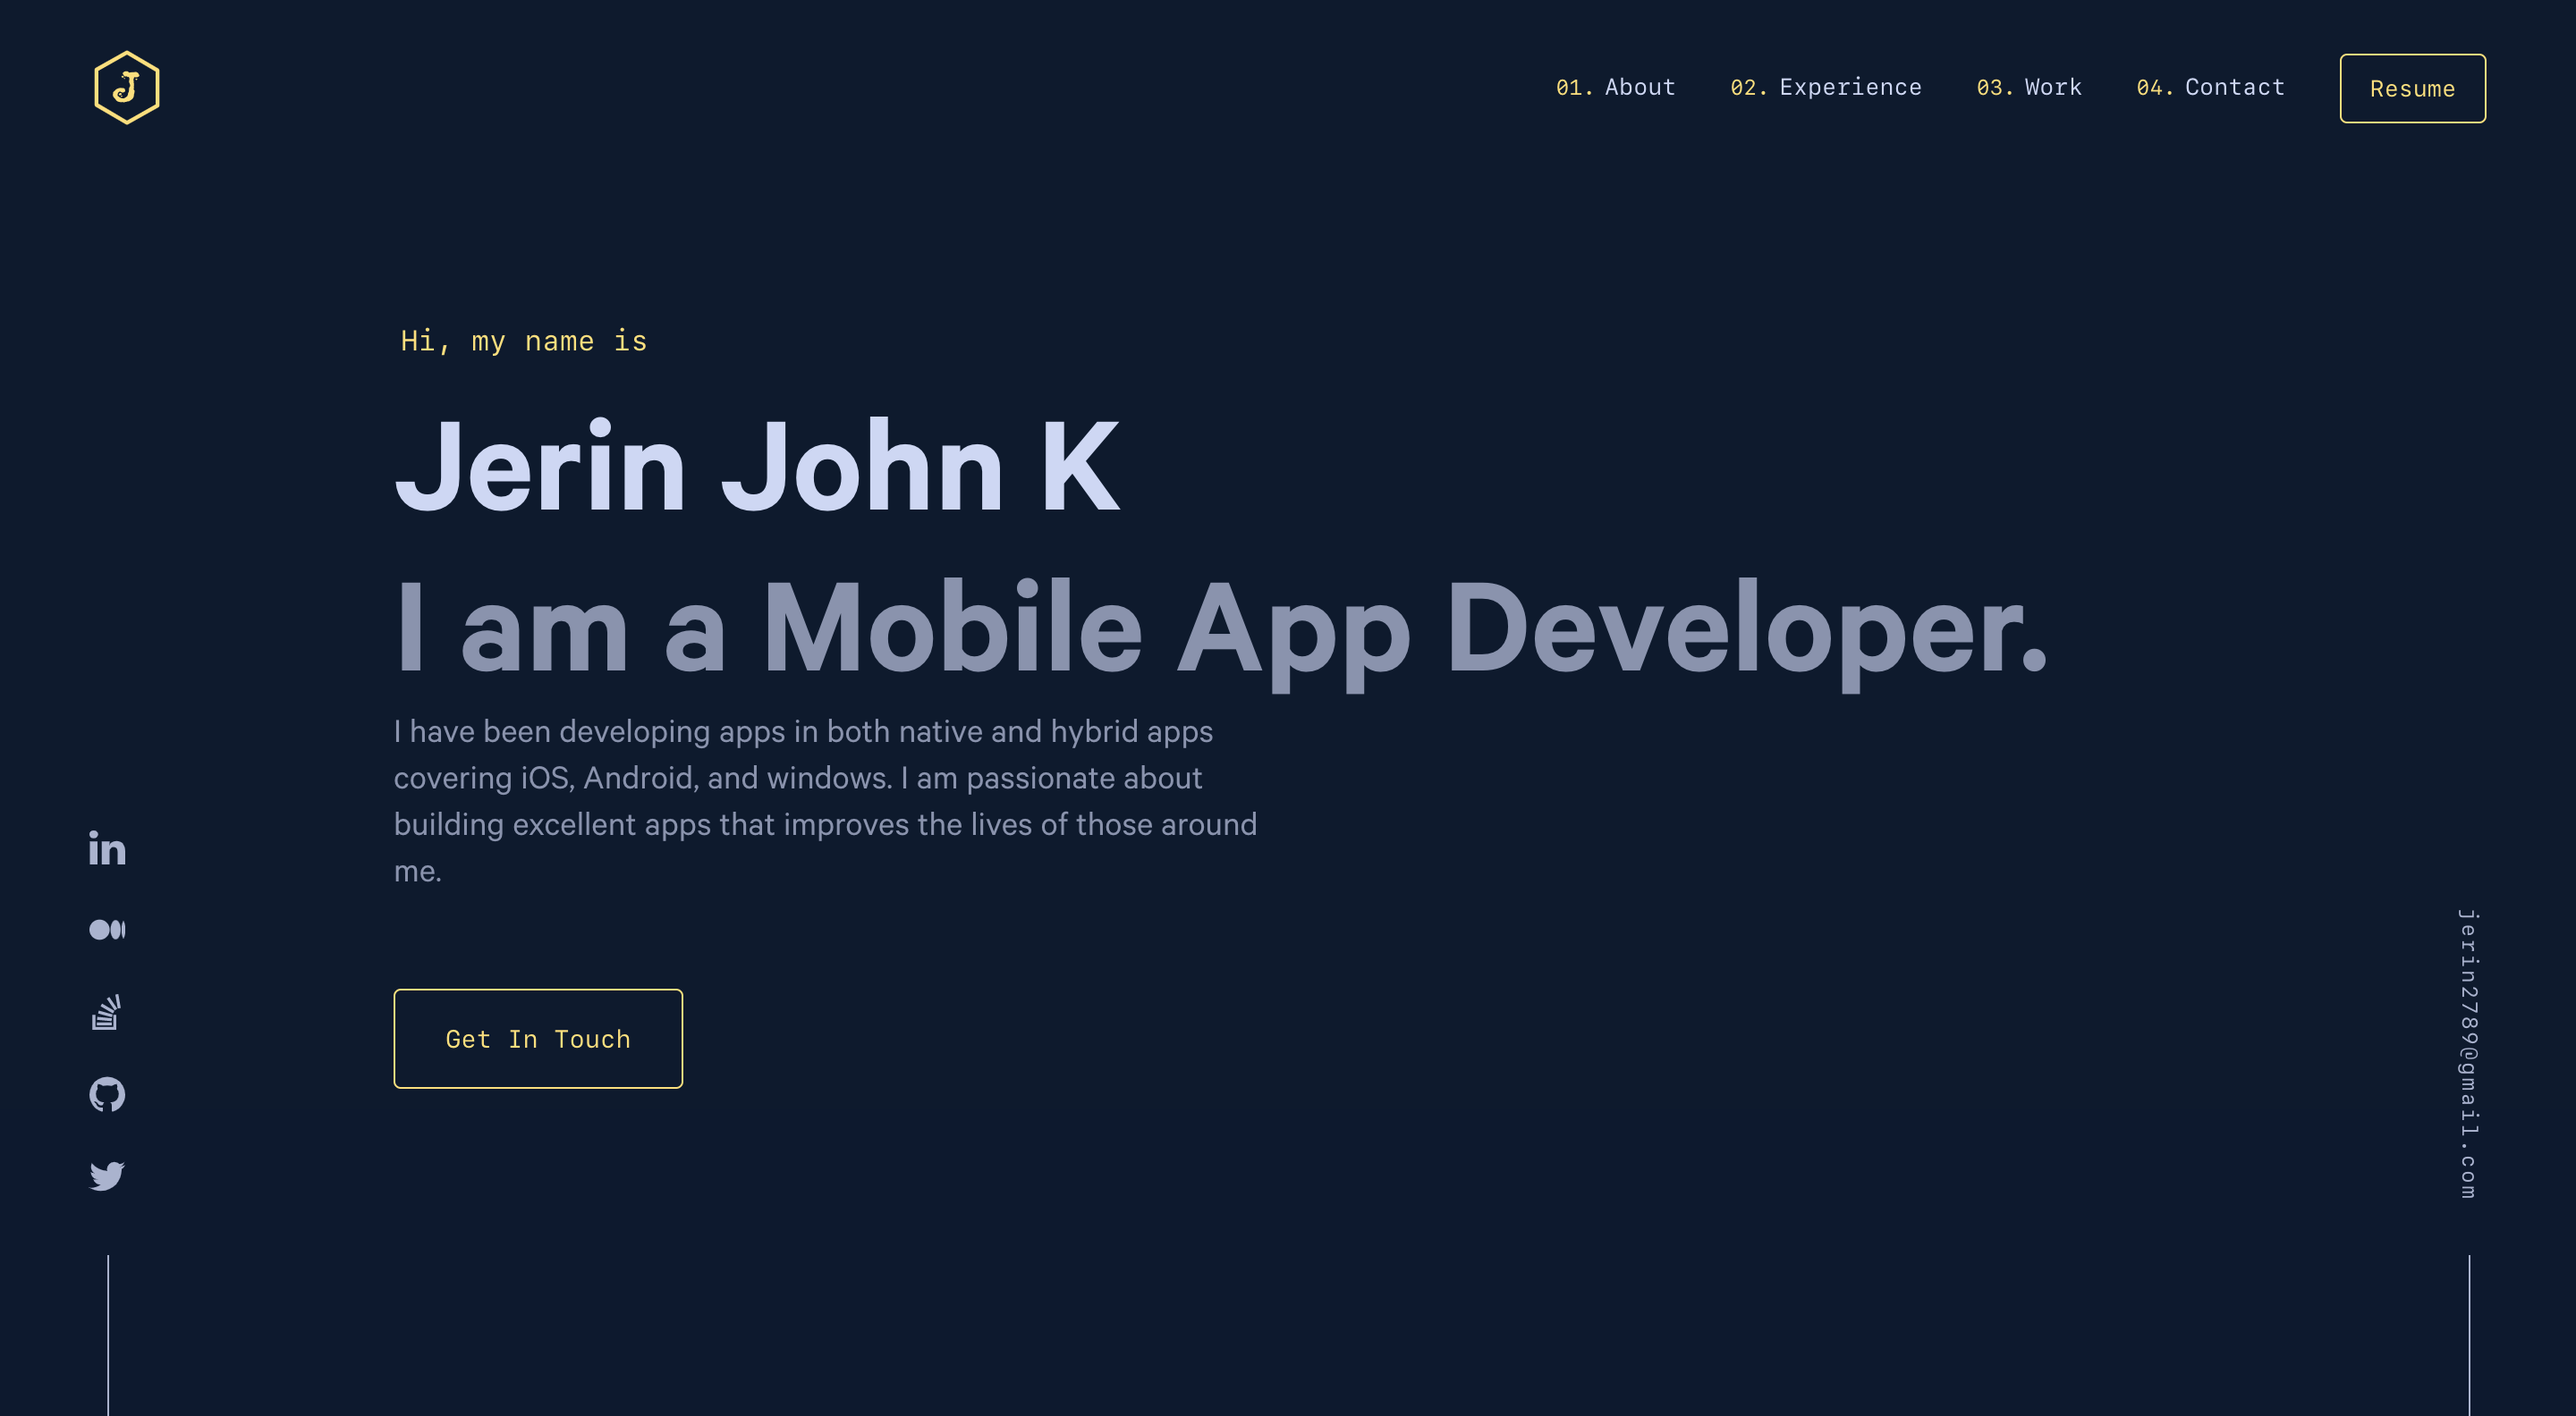
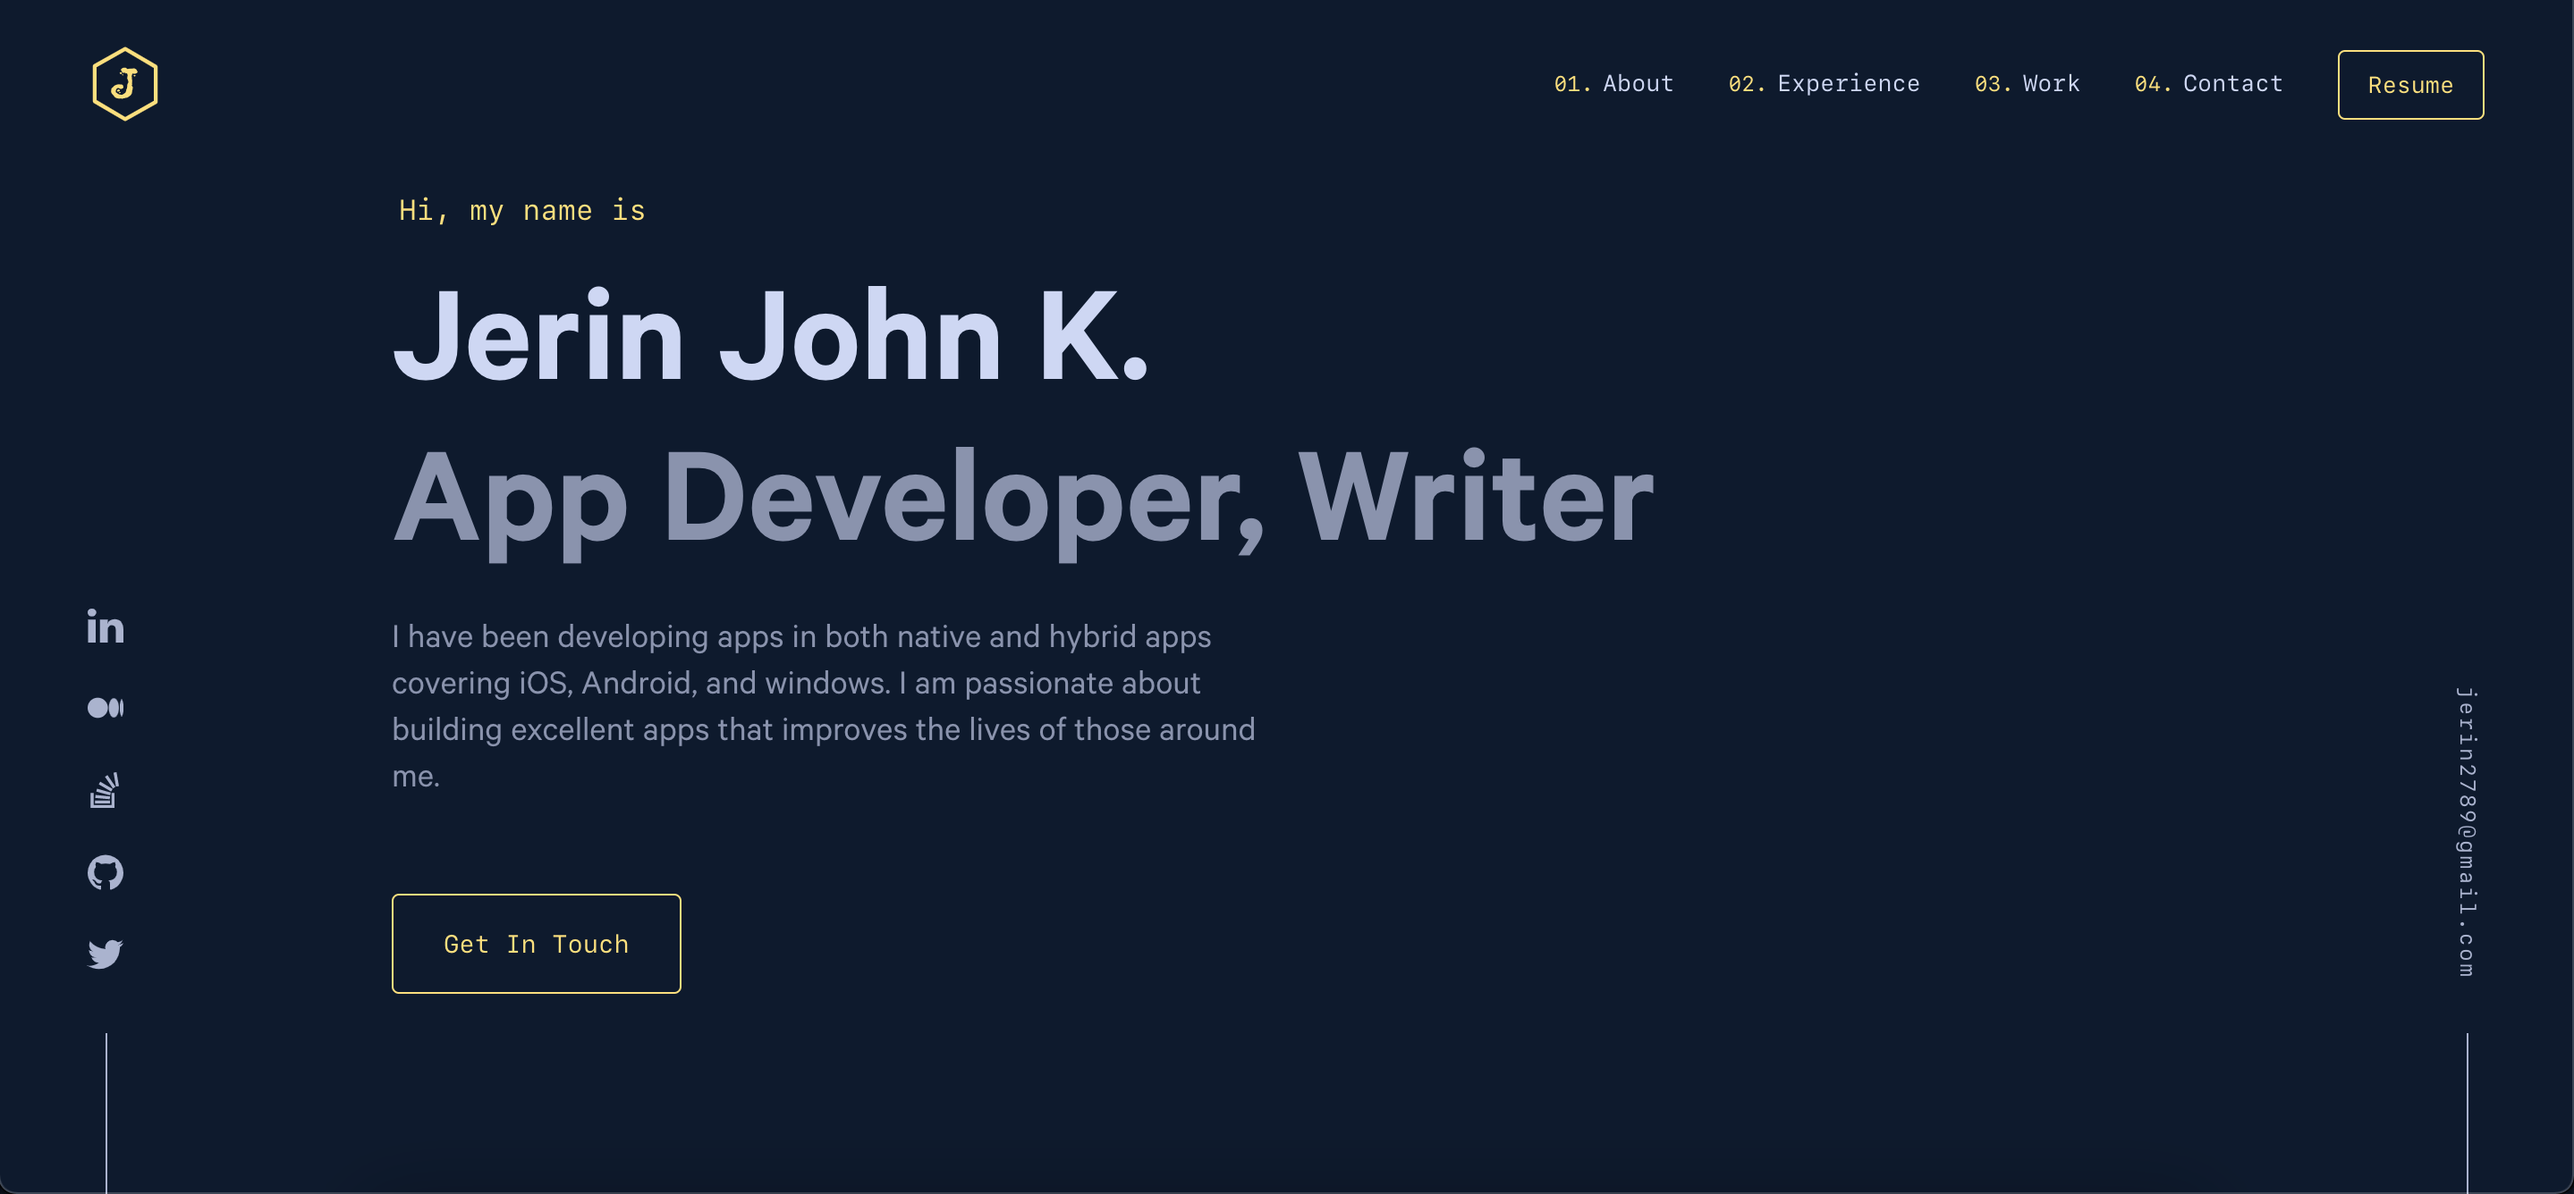
📝 Updated readme and hide Archive section

diff --git a/gatsby-config.js b/gatsby-config.js
@@ -4,9 +4,9 @@ module.exports = {
   siteMetadata: {
     title: 'Jerin John K',
     description:
-      'Jerin John K is a software engineer specializing in building (and occasionally designing) exceptional mobile applications and everything in between.',
+      'Jerin John K, is an app developer and writer',
     siteUrl: 'https://jerinjohnk.com', // No trailing slash allowed!
-    image: '/og.png', // Path to your image you placed in the 'static' folder
+    image: '/snap.png', // Path to your image you placed in the 'static' folder
     twitterUsername: '@jerinjohnk',
   },
   plugins: [

diff --git a/src/components/sections/about.js b/src/components/sections/about.js
@@ -149,8 +149,8 @@ const About = () => {
             </p>
 
             <p>
-              I do sometimes indulge in writing articles on{' '}
-              <a href="https://www.medium.com/@jerinjohnk">medium</a> related to programing.
+            I actively share my thoughts and research by writing articles on{' '}
+              <a href="https://www.medium.com/@jerinjohnk">medium</a>.
             </p>
             <p>
               Talk about a guilty pleasure – I enjoy reading user reviews for apps developed by me.

diff --git a/src/components/sections/hero.js b/src/components/sections/hero.js
@@ -48,8 +48,8 @@ const Hero = () => {
   }, []);
 
   const one = <h1>Hi, my name is</h1>;
-  const two = <h2 className="big-heading">Jerin John K</h2>;
-  const three = <h3 className="big-heading">I am a Mobile App Developer.</h3>;
+  const two = <h2 className="big-heading">Jerin John K.</h2>;
+  const three = <h3 className="big-heading">App Developer, Writer</h3>;
   const four = (
     <p>
       I have been developing apps in both native and hybrid apps covering iOS, Android, and windows.

diff --git a/src/components/sections/projects.js b/src/components/sections/projects.js
@@ -189,9 +189,9 @@ const Projects = () => {
     <StyledProjectsSection>
       <h2 ref={revealTitle}>Other Noteworthy Projects</h2>
 
-      <Link className="inline-link archive-link" to="/archive" ref={revealArchiveLink}>
+      {/* <Link className="inline-link archive-link" to="/archive" ref={revealArchiveLink}>
         view the archive
-      </Link>
+      </Link> */}
 
       <TransitionGroup className="projects-grid">
         {projectsToShow &&

diff --git a/src/components/footer.js b/src/components/footer.js
@@ -67,7 +67,7 @@ const Footer = () => (
     </StyledSocialLinks>
 
     <StyledCredit tabindex="-1">
-      <a href="https://brittanychiang.com/">
+      <a href="https://github.com/bchiang7/v4" target="_blank" rel="nofollow noopener noreferrer">
         <div>Designed by Brittany Chiang</div>
       </a>
     </StyledCredit>

diff --git a/README.md b/README.md
@@ -2,36 +2,18 @@
   <img alt="Logo" src="https://raw.githubusercontent.com/jerinjohnk/v4/main/src/images/logo.png" width="100" />
 </div>
 <h1 align="center">
-  brittanychiang.com - v4
+  jerinjohnk.netlify.app
 </h1>
 <p align="center">
-  The fourth iteration of <a href="https://brittanychiang.com" target="_blank">brittanychiang.com</a> built with <a href="https://www.gatsbyjs.org/" target="_blank">Gatsby</a> and hosted with <a href="https://www.netlify.com/" target="_blank">Netlify</a>
+  The website <a href="https://jerinjohnk.netlify.app" target="_blank">jerinjohnk.netlify.app</a> built with <a href="https://www.gatsbyjs.org/" target="_blank">Gatsby</a> and hosted with <a href="https://www.netlify.com/" target="_blank">Netlify</a>
 </p>
 <p align="center">
-  Previous iterations:
-  <a href="https://github.com/bchiang7/v1" target="_blank">v1</a>,
-  <a href="https://github.com/bchiang7/v2" target="_blank">v2</a>,
-  <a href="https://github.com/bchiang7/bchiang7.github.io" target="_blank">v3</a>
-</p>
-<p align="center">
-  <a href="https://app.netlify.com/sites/brittanychiang/deploys" target="_blank">
-    <img src="https://api.netlify.com/api/v1/badges/1963b488-7b78-48c9-9e2d-6fb5e47ab3af/deploy-status" alt="Netlify Status" />
+  <a href="https://app.netlify.com/sites/jerinjohnk/deploys" target="_blank">
+    <img src="https://api.netlify.com/api/v1/badges/0dd66acd-ea0a-4c0f-be99-39a392d9fb92/deploy-status" alt="Netlify Status" />
   </a>
 </p>
 
 ![demo](https://raw.githubusercontent.com/jerinjohnk/v4/main/src/images/demo.png)
-
-## 🚨 Forking this repo (please read!)
-
-Many people have contacted me asking me if they can use this code for their own website, and the answer to that question is usually **yes, with attribution**.
-
-I value keeping my site open source, but as you all know, _**plagiarism is bad**_. It's always disheartening whenever I find that someone has copied my site without giving me credit. I spent a non-trivial amount of effort building and designing this iteration of my website, and I am proud of it! All I ask of you all is to not claim this effort as your own.
-
-Please also note that I did not build this site with the intention of it being a starter theme, so if you have questions about implementation, please refer to the [Gatsby docs](https://www.gatsbyjs.org/docs/).
-
-### TL;DR
-
-Yes, you can fork this repo. Please give me proper credit by linking back to [brittanychiang.com](https://brittanychiang.com). Thanks!
 
 ## 🛠 Installation & Set Up
 
@@ -85,3 +67,39 @@ Yes, you can fork this repo. Please give me proper credit by linking back to [br
 | Lightest Slate | ![#ccd6f6](https://via.placeholder.com/10/ccd6f6?text=+) `#ccd6f6` |
 | White          | ![#e6f1ff](https://via.placeholder.com/10/e6f1ff?text=+) `#e6f1ff` |
 | Yellow         | ![#FFDF6C](https://via.placeholder.com/10/FFDF6C?text=+) `#FFDF6C` |
+
+
+## 🧐 What's inside
+
+A quick look at the top-level files and directories in this project.
+
+    .
+    ├── src
+    ├── gatsby-browser.js
+    ├── gatsby-config.js
+    ├── gatsby-node.js
+    ├── gatsby-ssr.js
+    ├── package.json
+    └── yarn.lock
+
+1. **`/src`**: This directory will contain all of the code related to what you will see on the front-end of your site (what you see in the browser), like your site header, or a page template. “Src” is a convention for “source code”.
+
+2. **`gatsby-browser.js`**: This file is where Gatsby expects to find any usage of the [Gatsby browser APIs](https://next.gatsbyjs.org/docs/browser-apis/) (if any). These allow customization/extension of default Gatsby settings affecting the browser.
+
+3. **`gatsby-config.js`**: This is the main configuration file for a Gatsby site. This is where you can specify information about your site (metadata) like the site title and description, which Gatsby plugins you’d like to include, etc. (Check out the [config docs](https://next.gatsbyjs.org/docs/gatsby-config/) for more detail).
+
+4. **`gatsby-node.js`**: This file is where Gatsby expects to find any usage of the [Gatsby node APIs](https://next.gatsbyjs.org/docs/node-apis/) (if any). These allow customization/extension of default Gatsby settings affecting pieces of the site build process.
+
+5. **`gatsby-ssr.js`**: This file is where Gatsby expects to find any usage of the [Gatsby server-side rendering APIs](https://next.gatsbyjs.org/docs/ssr-apis/) (if any). These allow customization of default Gatsby settings affecting server-side rendering.
+
+6.  **`package.json`**: A manifest file for Node.js projects, which includes things like metadata (the project’s name, author, etc). This manifest is how npm knows which packages to install for your project.
+
+7.  **`yarn.lock`**: [Yarn](https://yarnpkg.com/) is a package manager alternative to npm. You can use either yarn or npm, though all of the Gatsby docs reference npm. This file serves essentially the same purpose as `package-lock.json`, just for a different package management system.
+
+## Troubleshooting
+
+If you encounter authentication problems while deploying with deploying, then you might have not setup ssh authentication yet.
+
+## Credits
+
+This project was forked from Brittany Chiang's [repo](https://github.com/bchiang7/v4).
